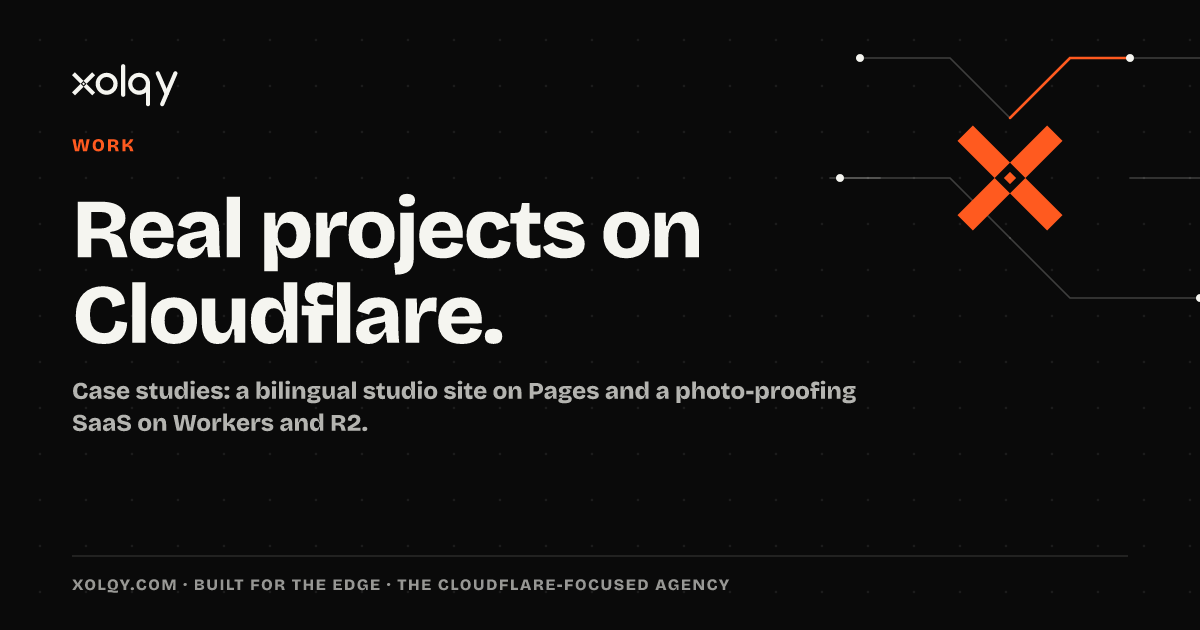
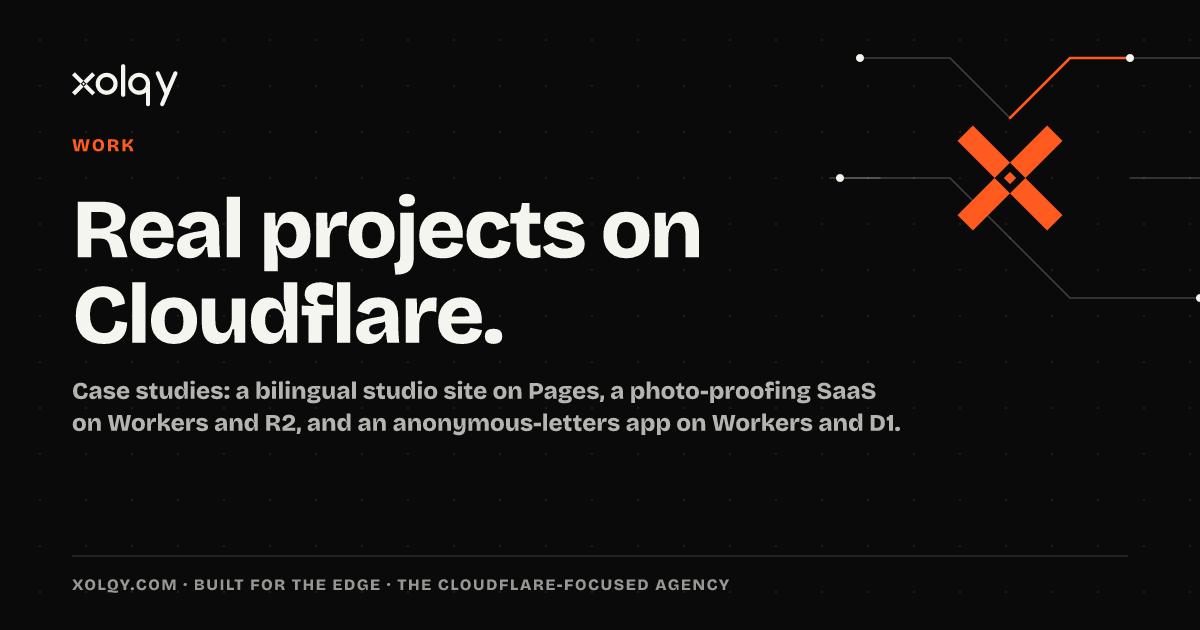
Agency site on Cloudflare Workers

Changed region(s): [[0.0617, 0.6032, 0.7708, 0.6937]]

diff --git a/src/styles/global.css b/src/styles/global.css
@@ -430,6 +430,22 @@ p { text-wrap: pretty; }
 /* Headline lines are blocks regardless of motion preference */
 .hero-line, .hero-line > span { display: block; }
 
+/* Shade: white display type on a dark background, lit from the top-left.
+   A gradient fill clipped to the glyphs plus a one-pixel highlight and shadow,
+   so large headings read as pressed into the surface rather than printed on it.
+   Dark sections only; in light sections the class is inert. Headings built from
+   animated .hero-line spans take the fill per line, because a transformed child
+   would otherwise break the text clip. */
+[data-theme='dark'] .shade:not(:has(.hero-line)),
+[data-theme='dark'] .shade .hero-line > span {
+  background-image: linear-gradient(to bottom right, var(--paper) 30%, rgba(245, 245, 240, 0.5));
+  -webkit-background-clip: text;
+  background-clip: text;
+  -webkit-text-fill-color: transparent;
+  text-shadow: -1px -1px 0 rgba(255, 255, 255, 0.2), 1px 1px 0 rgba(0, 0, 0, 0.1);
+}
+[data-theme='dark'] .shade em { -webkit-text-fill-color: var(--signal); }
+
 /* Utilities */
 .flow > * + * { margin-top: var(--space-4); }
 .flow-lg > * + * { margin-top: var(--space-6); }

diff --git a/README.md b/README.md
@@ -253,6 +253,7 @@ Declared statuses (`src/data/stack.ts`) and what completes each one:
 * **Public endpoints** never return personal data: `/api/enquiry/status` exposes stages and codes only.
 * **Caching:** all `/api/*` and `/admin/*` responses are `no-store` except `/api/status` (60s, no personal data) and `/api/resources/*` (public files).
 * **Retention:** enquiries are retained until archived/deleted by staff. A fixed retention period for archived records has not been decided; the privacy page says so explicitly rather than inventing one.
+* **Security page:** `/security/` describes the engagement security model (account membership, scoped tokens, 2FA, secrets, versioned deploys, exit), the controls on this site, Cloudflare's own certifications (named as Cloudflare's, never Xolqy's) and the disclosure process. `public/.well-known/security.txt` (RFC 9116) points reporters to the contact form; its `Expires` date must be renewed yearly.
 
 ## Missing business details
 
